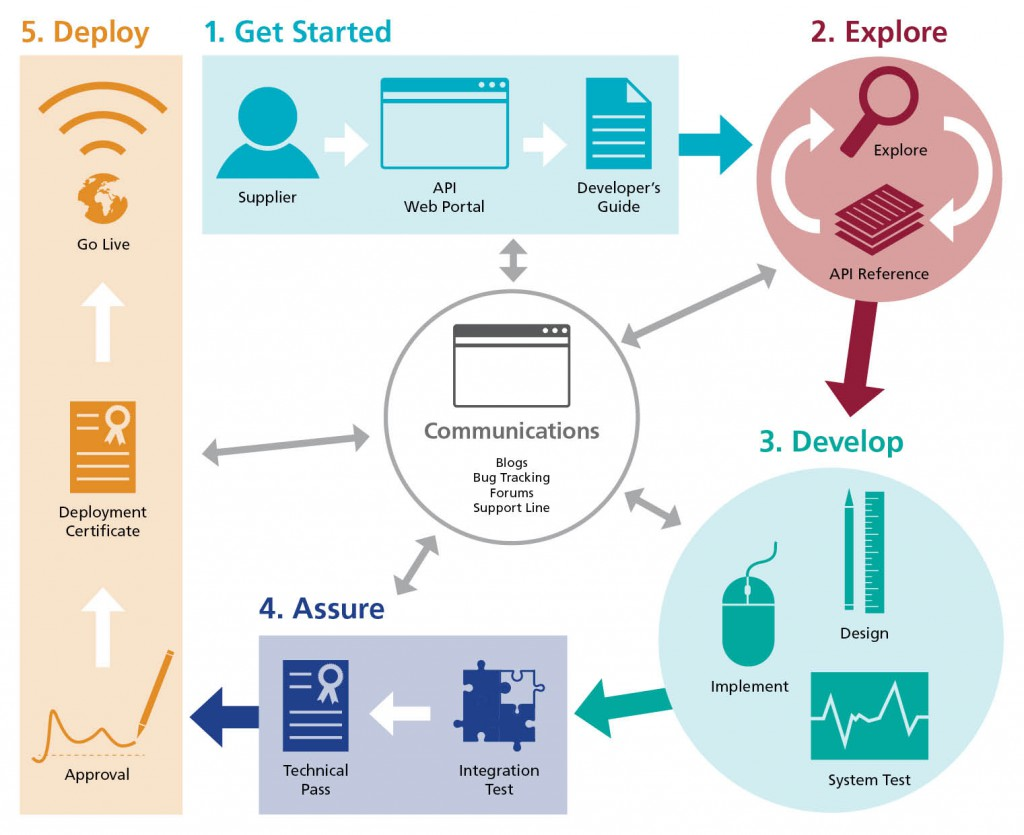
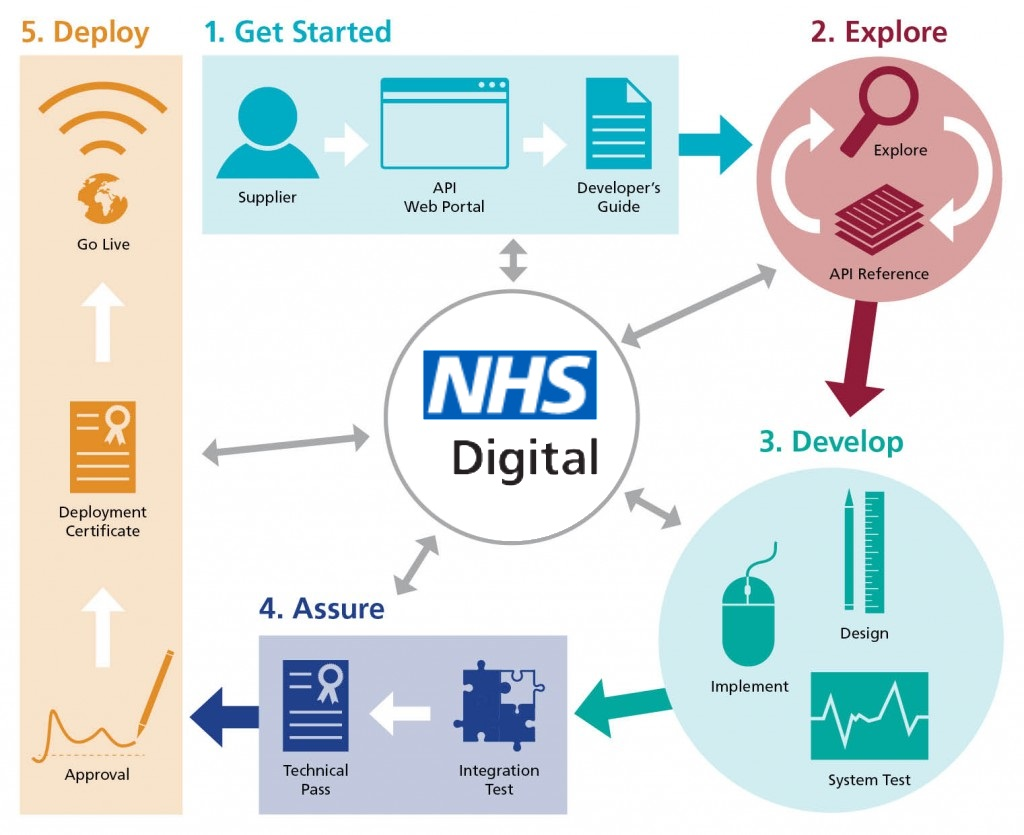
Changes to sidebar menu

Changed region(s): [[0.4062, 0.3737, 0.5938, 0.6228]]

diff --git a/index.md b/index.md
@@ -7,15 +7,17 @@ toc: false
 summary: "A brief introduction to getting started with the e-Referral APIs"
 ---
 
+# Introduction
+
 ## Application Programming Interface (API) ##
 
-A key aspect of the NHS e-RS vision is to enable local innovation and adoption of paperless referrals. You can do this in a secure and controlled manner using our API. The APIs are a well-defined interface aiding new software solutions in a simple way.
+A key aspect of the NHS e-RS vision is to enable local innovation and adoption of paperless referrals. To support this vision NHS Digital have created a set of APIs which provide a well-defined, simple to use data interface to the NHS e-Referral Service (e-RS).
 
-We want to stimulate and assist your development of applications linked to the NHS e-RS via its API. We describe and provide the usual tasks and support documents you will need here.
+We want to stimulate and assist your development of applications linked to the NHS e-RS using these APIs, so within these pages you will find information about the functionality of these APIs as well as guidance on how we can support you throughout development and implementation.
 
-## Ecosystem ##
+## The e-Referrals API Hub ##
 
-The site has five main parts. Each aligns to a phase of development and partner engagement with NHS Digital, as shown below. The Communication Channels let you engage with each phase of the Ecosystem. They are enabling components.
+The site has five main parts. Each aligns to a phase of development and partner engagement with NHS Digital, as shown below.  
 
 <img src="./images/ecosystem/eRS-ecosystem.gif" alt="NHS e-RS API Development Journey"/>
 
@@ -23,18 +25,20 @@ A summary of the activities and the support material in each of the phases are a
 
 |Phase&nbsp;&nbsp;&nbsp;&nbsp;&nbsp;&nbsp;&nbsp;&nbsp;&nbsp;&nbsp;&nbsp;&nbsp;&nbsp;&nbsp;&nbsp;&nbsp;|Description|
 |---|---|
-|1.&nbsp;Get&nbsp;Started|Non-technical and high-level technical documentation to get started with the development, including registration for new partners, a glossary and an FAQ|
-|2.&nbsp;Explore|A full API reference (live and alpha) and (ReST) resource definitions, standard models and error messages|
-|3.&nbsp;Develop|Business flows related to each main user journey, access to synthetic e-Referral test data|
-|4.&nbsp;Assure|NHS Digital validation, integration testing, technical accreditation, and guidance to clinical safety and information governance|
-|5.&nbsp;Deploy|Registration, deployment certificates and monitoring|
+|1.&nbsp;Get&nbsp;Started | How to get started with development, including registration for new partners and connection to development environments|
+|2.&nbsp;Explore | Overview of the functionality available through the APIs with business flow examples and links to technical documentation |
+|3.&nbsp;Develop | Complete list of available APIs and their status with technical documentation and information about support during the development phase |
+|4.&nbsp;Assure | Information on the compliance process, technical accreditation and advice on clinical safety reviews |
+|5.&nbsp;Deploy | Guidance on the process for going live and live service support |
 
-<p>&nbsp;</p>
+## NHS e-RS API Development Journey ##
+The diagram below provides a more detailed view of a typical Development Journey as a sequence of phases together with the key activities, support materials and/or services provided by the API Hub.  
 
-To begin head to the [Development Journey](getstarted_development_journey.html) page.
+![NHS e-RS API Development Journey](images/getstarted/NHS_eRS_API_Development_Journey-1024x835.jpg)
 
-## The wider perspective ##
 
-With new models of care emerging and evolving, there is a clear need for more effective information sharing between care settings, organisations and geographies, as well as between professionals and citizens, to optimise patient outcomes and quality of care. This is reliant on the ability of IT systems across health and care to be interoperable with one another, and is key to the delivery of the future vision of care in England. To learn more about the Interoperability efforts at the NHS Digital, visit the [NHS Digital Interoperability](https://www.england.nhs.uk/digitaltechnology/info-revolution/health-and-care-data/interoperability/) pages.
+## Further Resources ##
 
 A key consideration for any remote access service is the requirement that patient data is safe and protected. There are many rules that govern controls and protection when accessing systems and application remotely. To learn more about the Government Digital Service standards visit the [NHS Digital Industry Standards](https://digital.nhs.uk/services/health-and-social-care-network/hscn-technical-guidance/business-applications-guidance/industry-standards) pages.
+
+The e-RS integration APIs have been developed to be compliant with HL7 Fast Healthcare Interoperability Resources (FHIR) standards. More information about FHIR APIs is available at [https://digital.nhs.uk/services/fhir-apis](https://digital.nhs.uk/services/fhir-apis).

diff --git a/pages/getstarted/getstarted_development_journey.md b/pages/getstarted/getstarted_development_journey.md
@@ -7,11 +7,9 @@ permalink: getstarted_development_journey.html
 summary: "Describing the development journey when working with the e-Referral APIs"
 ---
 
-The diagram below provides a more detailed view of a typical Development Journey as a sequence of phases together with the key activities, support materials and/or services provided by the Ecosystem.
+The diagram below provides a more detailed view of a typical Development Journey as a sequence of phases together with the key activities, support materials and/or services provided by the API Hub.
 
 ![NHS e-RS API Development Journey](images/getstarted/NHS_eRS_API_Development_Journey-1024x835.jpg)
-
-Note that not all activities are illustrated. For instance Target Operating Model, Clinical Safety assessment and Information Governance (IG) assurance.
 
 As shown in the figure above, a typical scenario involves the following steps:
 
